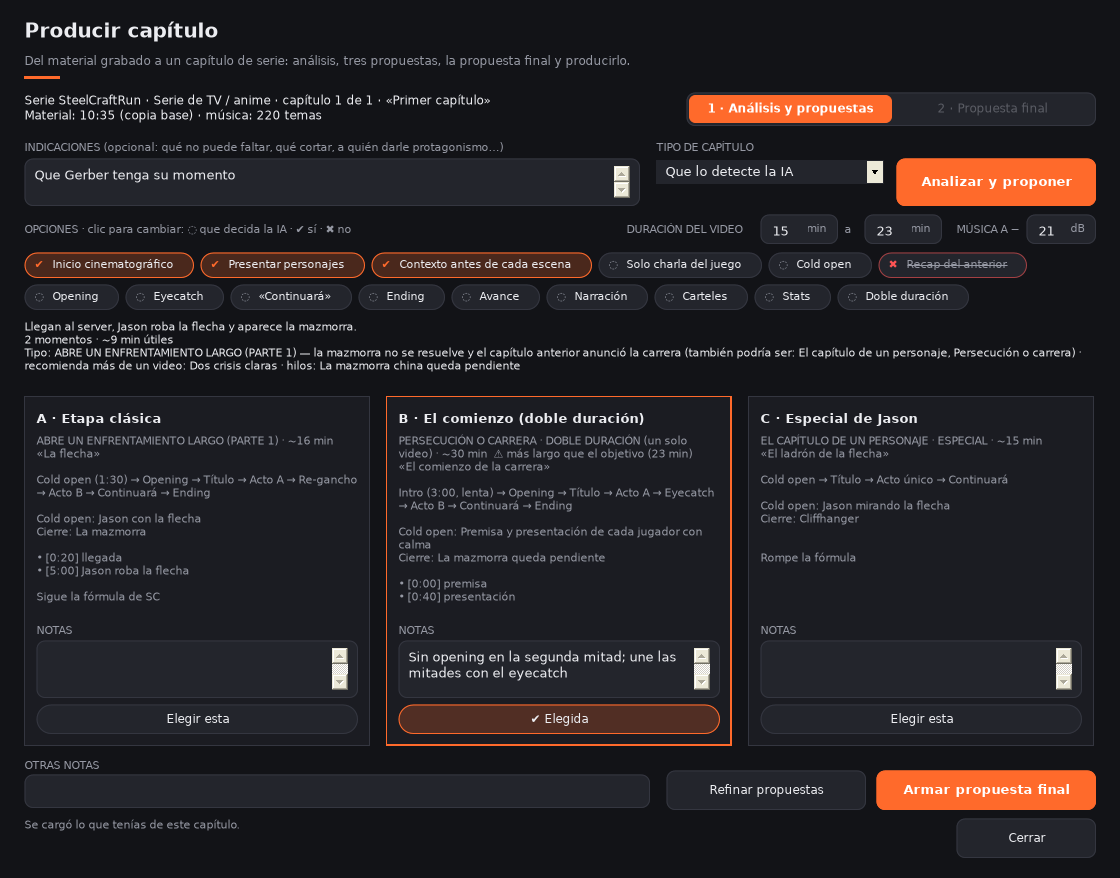
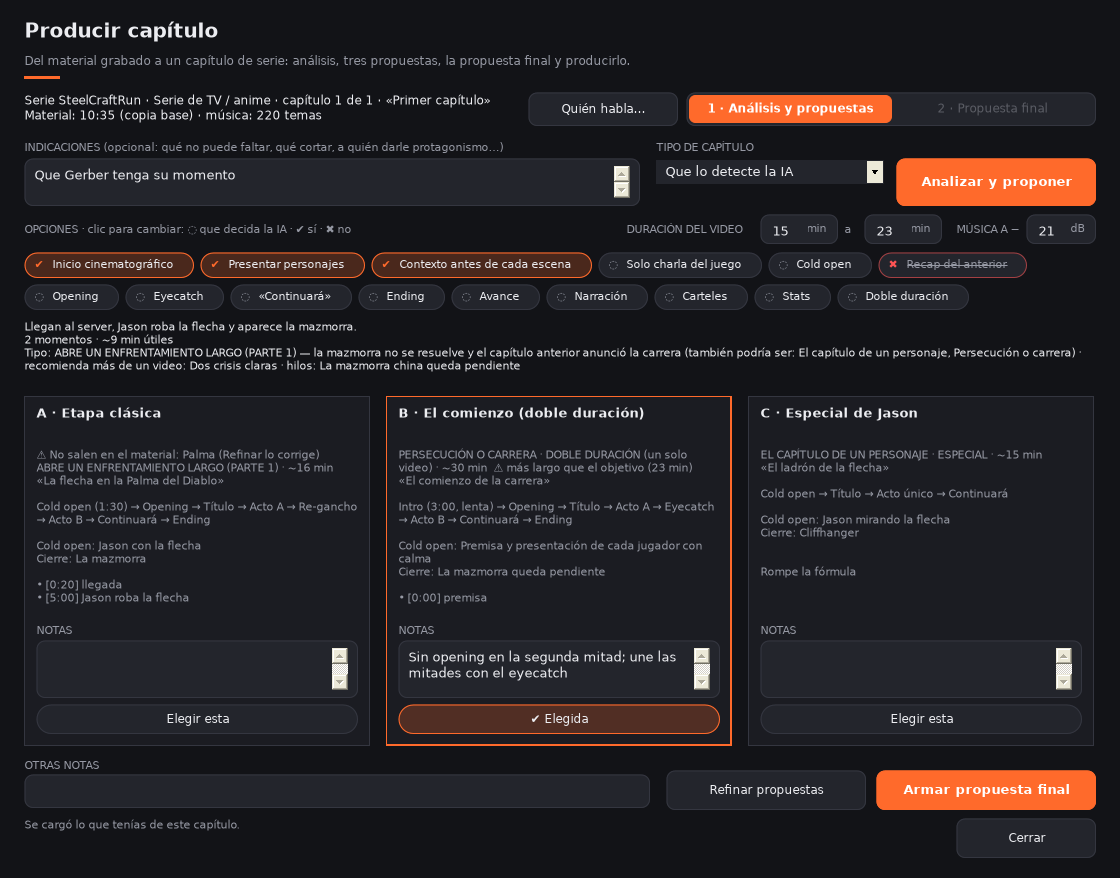
Producir: quién habla en cada pista
- Los nombres de MomentosIA pasan a la transcripción de la copia BASE (que se guarda
  antes de MomentosIA), sin pisar los que ya tiene.
- Botón «Quién habla…» para poner o corregir el nombre de cada pista (también varios).
- Gemini recibe la lista de quién habla en cada pista además del nombre en cada línea.

Claude-Session: https://claude.ai/code/session_015ZPaXgugPUds11RD7qtQCJ

diff --git a/scripts/ProducirCapitulo.cs b/scripts/ProducirCapitulo.cs
@@ -89,6 +89,43 @@ class OpcionTriple : ControlBase
     }
 }
 
+// Quien habla en cada pista (como en MomentosIA).
+class VentanaHablantes : VentanaBase
+{
+    readonly List<KeyValuePair<Hablante, CampoTexto>> campos = new List<KeyValuePair<Hablante, CampoTexto>>();
+
+    public VentanaHablantes(Transcripcion t) : base("Qui\u00e9n habla", 620)
+    {
+        StartPosition = FormStartPosition.CenterParent;
+        int m = Margen, w = Ancho;
+        Encabezado("Qui\u00e9n habla", "Un nombre por pista; si hablan varios, escr\u00edbelos todos (\u00abDiscord: Jason, Gerber y Ronnie\u00bb).");
+        int y = 92;
+        foreach (Hablante h in t.Hablantes)
+        {
+            if (!h.Voz) continue;
+            string archivo = Path.GetFileName(h.Archivo ?? "");
+            Texto(h.Etiqueta + (archivo.Length > 0 ? " \u00b7 " + archivo : ""), Tema.Pequena, Tema.TextoSuave, m, y + 8, 200, 18);
+            CampoTexto c = new CampoTexto();
+            c.Text = h.Nombre != h.Etiqueta ? (h.Nombre ?? "") : "";
+            Pos(c, m + 210, y, w - 210, 32);
+            campos.Add(new KeyValuePair<Hablante, CampoTexto>(h, c));
+            y += 40;
+        }
+        y += 10;
+        Boton ok = new Boton("Guardar", EstiloBoton.Primario), no = new Boton("Cancelar", EstiloBoton.Secundario);
+        Pos(no, m + w - 270, y, 120, 36);
+        Pos(ok, m + w - 140, y, 140, 36);
+        ClientSize = new Size(ClientSize.Width, y + 36 + 20);
+        ok.Click += delegate
+        {
+            foreach (KeyValuePair<Hablante, CampoTexto> kv in campos)
+                kv.Key.Nombre = kv.Value.Text.Trim().Length > 0 ? kv.Value.Text.Trim() : kv.Key.Etiqueta;
+            DialogResult = DialogResult.OK; Close();
+        };
+        no.Click += delegate { DialogResult = DialogResult.Cancel; Close(); };
+    }
+}
+
 // La propuesta completa, para leerla entera (la tarjeta la corta).
 static class VerTexto
 {
@@ -202,6 +239,7 @@ class VentanaProduccion : VentanaBase
     Etiqueta lblContexto, lblAnalisis, lblEstado, lblFinal;
     CampoTexto txtIndicaciones = new CampoTexto();
     Combo cmbTipo = new Combo();
+    Boton btnHablan = new Boton("Qui\u00e9n habla\u2026", EstiloBoton.Secundario);
     List<OpcionTriple> chips = new List<OpcionTriple>();
     CampoNumero numMin = new CampoNumero(), numMax = new CampoNumero(), numMusica = new CampoNumero();
     OpcionesCapitulo opc = new OpcionesCapitulo();
@@ -225,7 +263,8 @@ class VentanaProduccion : VentanaBase
         int m = Margen, w = Ancho;
         Encabezado("Producir cap\u00edtulo", "Del material grabado a un cap\u00edtulo de serie: an\u00e1lisis, tres propuestas, la propuesta final y producirlo.");
         int y = 92;
-        lblContexto = Texto("", Tema.Normal, Tema.Texto, m, y, w - 420, 40);
+        lblContexto = Texto("", Tema.Normal, Tema.Texto, m, y, w - 580, 40);
+        Pos(btnHablan, m + w - 568, y, 150, 34);
         Pos(segPaso, m + w - 410, y, 410, 34);
         y += 46;
 
@@ -319,6 +358,17 @@ class VentanaProduccion : VentanaBase
             Analizar();
         };
         btnRefinar.Click += delegate { Refinar(); };
+        btnHablan.Click += delegate
+        {
+            if (trans == null) return;
+            using (VentanaHablantes v = new VentanaHablantes(trans))
+                if (v.ShowDialog(this) == DialogResult.OK)
+                {
+                    try { trans.Guardar(Transcripcion.RutaPara(veg)); } catch { }
+                    if (analisis != null) MostrarAnalisis();
+                    Estado("\u2714 Nombres guardados. Los usa todo lo que le pidas a Gemini desde ahora.", false);
+                }
+        };
         btnFinal.Click += delegate { Final(null); };
         btnAjustar.Click += delegate
         {
@@ -472,6 +522,10 @@ class VentanaProduccion : VentanaBase
         try
         {
             trans = Transcripcion.Cargar(Transcripcion.RutaPara(veg));
+            // La copia BASE se guarda antes de MomentosIA: los nombres que pusiste ahi estan en la del original.
+            string tOrig = Transcripcion.RutaPara(original);
+            if (veg != original && File.Exists(tOrig) && LogicaProduccion.CopiarNombres(trans, Transcripcion.Cargar(tOrig)) > 0)
+                try { trans.Guardar(Transcripcion.RutaPara(veg)); } catch { }
             if (trans.TieneFuentes) trans.Ubicador = PistasVegas.Ubicador(vegas.Project, trans);
         }
         catch (Exception ex) { Estado("No se pudo leer la transcripci\u00f3n: " + ex.Message, true); }
@@ -568,7 +622,7 @@ class VentanaProduccion : VentanaBase
 
     void Habilitar(bool si)
     {
-        foreach (Control c in new Control[] { btnAnalizar, btnRefinar, btnFinal, btnAjustar, btnProducir, btnCerrar, segPaso }) c.Enabled = si;
+        foreach (Control c in new Control[] { btnAnalizar, btnRefinar, btnFinal, btnAjustar, btnProducir, btnCerrar, segPaso, btnHablan }) c.Enabled = si;
         if (si) btnRefinar.Enabled = analisis != null;
         if (si) { btnFinal.Enabled = Elegida() != null; segPaso.Habilitar(1, final != null); }
     }
@@ -1200,6 +1254,39 @@ public static class LogicaProduccion
                " \"papel\": {\"sugerido\": \"" + papel + "\", \"motivo\": \"...\"},\n" + FormatoPropuestas + "}";
     }
 
+    // Quien habla en cada pista (lo que pusiste en MomentosIA o en \u00abQui\u00e9n habla\u2026\u00bb).
+    public static string QuienHabla(Transcripcion t)
+    {
+        if (t == null) return "";
+        StringBuilder sb = new StringBuilder();
+        foreach (Hablante h in t.Hablantes)
+        {
+            if (!h.Voz) continue;
+            string n = (h.Nombre ?? "").Trim();
+            sb.Append("- " + h.Etiqueta + ": " + (n.Length > 0 && n != h.Etiqueta ? n : "(sin nombre)") + "\n");
+        }
+        if (sb.Length == 0) return "";
+        return "\nQUI\u00c9N HABLA EN CADA PISTA (si una pista tiene a varias personas, dist\u00edngelas por lo que dicen y c\u00f3mo se llaman " +
+               "entre ellos):\n" + sb;
+    }
+
+    // Pasa los nombres de una transcripcion a otra (de la del proyecto original a la de la copia BASE)
+    // en las pistas que no tienen nombre. Devuelve cuantos paso.
+    public static int CopiarNombres(Transcripcion destino, Transcripcion origen)
+    {
+        if (destino == null || origen == null) return 0;
+        int n = 0;
+        foreach (Hablante h in destino.Hablantes)
+        {
+            if (!String.IsNullOrEmpty(h.Nombre) && h.Nombre != h.Etiqueta) continue;
+            Hablante o = origen.Hablantes.Find(delegate (Hablante x) { return x.Etiqueta == h.Etiqueta; });
+            if (o == null || String.IsNullOrEmpty(o.Nombre) || o.Nombre == o.Etiqueta) continue;
+            h.Nombre = o.Nombre;
+            n++;
+        }
+        return n;
+    }
+
     public static string MensajeAnalisis(Transcripcion t, double duracion, string contextoSerie, string reparto, string indicaciones)
     {
         StringBuilder sb = new StringBuilder();
@@ -1207,6 +1294,7 @@ public static class LogicaProduccion
         if (!String.IsNullOrEmpty(indicaciones)) sb.Append("\nINDICACIONES DEL EDITOR (mandan):\n" + indicaciones.Trim() + "\n");
         if (!String.IsNullOrEmpty(contextoSerie)) sb.Append("\nCONTEXTO DE LA SERIE:\n" + contextoSerie.Trim() + "\n");
         if (!String.IsNullOrEmpty(reparto)) sb.Append("\n" + reparto);
+        sb.Append(QuienHabla(t));
         sb.Append("\nTRANSCRIPCI\u00d3N DEL MATERIAL [inicio-fin] persona: texto\n" + Material(t, 400000));
         return sb.ToString();
     }
@@ -1523,6 +1611,7 @@ public static class LogicaProduccion
         foreach (MomentoMaterial x in a.Momentos)
             sb.Append("[" + S(x.Inicio) + "-" + S(x.Fin) + "] " + x.Tipo + " (" + x.Fuerza + "): " + x.Texto + "\n");
         if (!String.IsNullOrEmpty(reparto)) sb.Append("\n" + reparto);
+        sb.Append(QuienHabla(t));
         if (m != null)
         {
             if (m.Principal != null) sb.Append("Tema principal de la serie: " + Path.GetFileNameWithoutExtension(m.Principal.Archivo) + "\n");

diff --git a/src/producir/Produccion.cs b/src/producir/Produccion.cs
@@ -66,6 +66,43 @@ class OpcionTriple : ControlBase
     }
 }
 
+// Quien habla en cada pista (como en MomentosIA).
+class VentanaHablantes : VentanaBase
+{
+    readonly List<KeyValuePair<Hablante, CampoTexto>> campos = new List<KeyValuePair<Hablante, CampoTexto>>();
+
+    public VentanaHablantes(Transcripcion t) : base("Quién habla", 620)
+    {
+        StartPosition = FormStartPosition.CenterParent;
+        int m = Margen, w = Ancho;
+        Encabezado("Quién habla", "Un nombre por pista; si hablan varios, escríbelos todos («Discord: Jason, Gerber y Ronnie»).");
+        int y = 92;
+        foreach (Hablante h in t.Hablantes)
+        {
+            if (!h.Voz) continue;
+            string archivo = Path.GetFileName(h.Archivo ?? "");
+            Texto(h.Etiqueta + (archivo.Length > 0 ? " · " + archivo : ""), Tema.Pequena, Tema.TextoSuave, m, y + 8, 200, 18);
+            CampoTexto c = new CampoTexto();
+            c.Text = h.Nombre != h.Etiqueta ? (h.Nombre ?? "") : "";
+            Pos(c, m + 210, y, w - 210, 32);
+            campos.Add(new KeyValuePair<Hablante, CampoTexto>(h, c));
+            y += 40;
+        }
+        y += 10;
+        Boton ok = new Boton("Guardar", EstiloBoton.Primario), no = new Boton("Cancelar", EstiloBoton.Secundario);
+        Pos(no, m + w - 270, y, 120, 36);
+        Pos(ok, m + w - 140, y, 140, 36);
+        ClientSize = new Size(ClientSize.Width, y + 36 + 20);
+        ok.Click += delegate
+        {
+            foreach (KeyValuePair<Hablante, CampoTexto> kv in campos)
+                kv.Key.Nombre = kv.Value.Text.Trim().Length > 0 ? kv.Value.Text.Trim() : kv.Key.Etiqueta;
+            DialogResult = DialogResult.OK; Close();
+        };
+        no.Click += delegate { DialogResult = DialogResult.Cancel; Close(); };
+    }
+}
+
 // La propuesta completa, para leerla entera (la tarjeta la corta).
 static class VerTexto
 {
@@ -179,6 +216,7 @@ class VentanaProduccion : VentanaBase
     Etiqueta lblContexto, lblAnalisis, lblEstado, lblFinal;
     CampoTexto txtIndicaciones = new CampoTexto();
     Combo cmbTipo = new Combo();
+    Boton btnHablan = new Boton("Quién habla…", EstiloBoton.Secundario);
     List<OpcionTriple> chips = new List<OpcionTriple>();
     CampoNumero numMin = new CampoNumero(), numMax = new CampoNumero(), numMusica = new CampoNumero();
     OpcionesCapitulo opc = new OpcionesCapitulo();
@@ -202,7 +240,8 @@ class VentanaProduccion : VentanaBase
         int m = Margen, w = Ancho;
         Encabezado("Producir capítulo", "Del material grabado a un capítulo de serie: análisis, tres propuestas, la propuesta final y producirlo.");
         int y = 92;
-        lblContexto = Texto("", Tema.Normal, Tema.Texto, m, y, w - 420, 40);
+        lblContexto = Texto("", Tema.Normal, Tema.Texto, m, y, w - 580, 40);
+        Pos(btnHablan, m + w - 568, y, 150, 34);
         Pos(segPaso, m + w - 410, y, 410, 34);
         y += 46;
 
@@ -296,6 +335,17 @@ class VentanaProduccion : VentanaBase
             Analizar();
         };
         btnRefinar.Click += delegate { Refinar(); };
+        btnHablan.Click += delegate
+        {
+            if (trans == null) return;
+            using (VentanaHablantes v = new VentanaHablantes(trans))
+                if (v.ShowDialog(this) == DialogResult.OK)
+                {
+                    try { trans.Guardar(Transcripcion.RutaPara(veg)); } catch { }
+                    if (analisis != null) MostrarAnalisis();
+                    Estado("✔ Nombres guardados. Los usa todo lo que le pidas a Gemini desde ahora.", false);
+                }
+        };
         btnFinal.Click += delegate { Final(null); };
         btnAjustar.Click += delegate
         {
@@ -449,6 +499,10 @@ class VentanaProduccion : VentanaBase
         try
         {
             trans = Transcripcion.Cargar(Transcripcion.RutaPara(veg));
+            // La copia BASE se guarda antes de MomentosIA: los nombres que pusiste ahi estan en la del original.
+            string tOrig = Transcripcion.RutaPara(original);
+            if (veg != original && File.Exists(tOrig) && LogicaProduccion.CopiarNombres(trans, Transcripcion.Cargar(tOrig)) > 0)
+                try { trans.Guardar(Transcripcion.RutaPara(veg)); } catch { }
             if (trans.TieneFuentes) trans.Ubicador = PistasVegas.Ubicador(vegas.Project, trans);
         }
         catch (Exception ex) { Estado("No se pudo leer la transcripción: " + ex.Message, true); }
@@ -545,7 +599,7 @@ class VentanaProduccion : VentanaBase
 
     void Habilitar(bool si)
     {
-        foreach (Control c in new Control[] { btnAnalizar, btnRefinar, btnFinal, btnAjustar, btnProducir, btnCerrar, segPaso }) c.Enabled = si;
+        foreach (Control c in new Control[] { btnAnalizar, btnRefinar, btnFinal, btnAjustar, btnProducir, btnCerrar, segPaso, btnHablan }) c.Enabled = si;
         if (si) btnRefinar.Enabled = analisis != null;
         if (si) { btnFinal.Enabled = Elegida() != null; segPaso.Habilitar(1, final != null); }
     }

diff --git a/src/producir/LogicaProduccion.cs b/src/producir/LogicaProduccion.cs
@@ -413,6 +413,39 @@ public static class LogicaProduccion
                " \"papel\": {\"sugerido\": \"" + papel + "\", \"motivo\": \"...\"},\n" + FormatoPropuestas + "}";
     }
 
+    // Quien habla en cada pista (lo que pusiste en MomentosIA o en «Quién habla…»).
+    public static string QuienHabla(Transcripcion t)
+    {
+        if (t == null) return "";
+        StringBuilder sb = new StringBuilder();
+        foreach (Hablante h in t.Hablantes)
+        {
+            if (!h.Voz) continue;
+            string n = (h.Nombre ?? "").Trim();
+            sb.Append("- " + h.Etiqueta + ": " + (n.Length > 0 && n != h.Etiqueta ? n : "(sin nombre)") + "\n");
+        }
+        if (sb.Length == 0) return "";
+        return "\nQUIÉN HABLA EN CADA PISTA (si una pista tiene a varias personas, distíngelas por lo que dicen y cómo se llaman " +
+               "entre ellos):\n" + sb;
+    }
+
+    // Pasa los nombres de una transcripcion a otra (de la del proyecto original a la de la copia BASE)
+    // en las pistas que no tienen nombre. Devuelve cuantos paso.
+    public static int CopiarNombres(Transcripcion destino, Transcripcion origen)
+    {
+        if (destino == null || origen == null) return 0;
+        int n = 0;
+        foreach (Hablante h in destino.Hablantes)
+        {
+            if (!String.IsNullOrEmpty(h.Nombre) && h.Nombre != h.Etiqueta) continue;
+            Hablante o = origen.Hablantes.Find(delegate (Hablante x) { return x.Etiqueta == h.Etiqueta; });
+            if (o == null || String.IsNullOrEmpty(o.Nombre) || o.Nombre == o.Etiqueta) continue;
+            h.Nombre = o.Nombre;
+            n++;
+        }
+        return n;
+    }
+
     public static string MensajeAnalisis(Transcripcion t, double duracion, string contextoSerie, string reparto, string indicaciones)
     {
         StringBuilder sb = new StringBuilder();
@@ -420,6 +453,7 @@ public static class LogicaProduccion
         if (!String.IsNullOrEmpty(indicaciones)) sb.Append("\nINDICACIONES DEL EDITOR (mandan):\n" + indicaciones.Trim() + "\n");
         if (!String.IsNullOrEmpty(contextoSerie)) sb.Append("\nCONTEXTO DE LA SERIE:\n" + contextoSerie.Trim() + "\n");
         if (!String.IsNullOrEmpty(reparto)) sb.Append("\n" + reparto);
+        sb.Append(QuienHabla(t));
         sb.Append("\nTRANSCRIPCIÓN DEL MATERIAL [inicio-fin] persona: texto\n" + Material(t, 400000));
         return sb.ToString();
     }
@@ -736,6 +770,7 @@ public static class LogicaProduccion
         foreach (MomentoMaterial x in a.Momentos)
             sb.Append("[" + S(x.Inicio) + "-" + S(x.Fin) + "] " + x.Tipo + " (" + x.Fuerza + "): " + x.Texto + "\n");
         if (!String.IsNullOrEmpty(reparto)) sb.Append("\n" + reparto);
+        sb.Append(QuienHabla(t));
         if (m != null)
         {
             if (m.Principal != null) sb.Append("Tema principal de la serie: " + Path.GetFileNameWithoutExtension(m.Principal.Archivo) + "\n");

diff --git a/pruebas/PruebaProduccion.cs b/pruebas/PruebaProduccion.cs
@@ -148,6 +148,19 @@ class PruebaProduccion
                   Math.Abs(rep.Repetido - 41.5) < 0.01,
                   "Escaleta: nada se repite (lo del cold open se recorta de los actos); el avance es del próximo capítulo y queda como placeholder");
 
+        // ------------------------------------------------ quien habla
+        Transcripcion tb = new Transcripcion(), to = new Transcripcion();
+        tb.Hablantes.Add(new Hablante { Etiqueta = "A2", Nombre = "A2", Voz = true });
+        tb.Hablantes.Add(new Hablante { Etiqueta = "A3", Nombre = "Jason", Voz = true });
+        tb.Hablantes.Add(new Hablante { Etiqueta = "A5", Nombre = "A5", Voz = false });
+        to.Hablantes.Add(new Hablante { Etiqueta = "A2", Nombre = "AB Fann", Voz = true });
+        to.Hablantes.Add(new Hablante { Etiqueta = "A3", Nombre = "Otro", Voz = true });
+        int cn2 = LogicaProduccion.CopiarNombres(tb, to);
+        string qh = LogicaProduccion.MensajeAnalisis(tb, 60, "", "", "");
+        Verificar(cn2 == 1 && tb.Hablantes[0].Nombre == "AB Fann" && tb.Hablantes[1].Nombre == "Jason" && qh.Contains("QUIÉN HABLA EN CADA PISTA") &&
+                  qh.Contains("- A2: AB Fann") && !qh.Contains("A5"),
+                  "Quién habla: los nombres de MomentosIA pasan a la copia BASE (sin pisar los que ya tiene) y Gemini los recibe por pista");
+
         // ------------------------------------------------ duracion pedida
         PlanFinal corta = LogicaProduccion.LeerFinal(@"{""partes"": [{""titulo"": ""X"", ""estructura"": [{""bloque"": ""acto_a"", ""tipo"": ""contenido""}],
             ""bloques"": [{""bloque"": ""acto_a"", ""clips"": [{""inicio"": 100, ""fin"": 220}, {""inicio"": 400, ""fin"": 580}]}]}]}", 3600, 0, 195);

diff --git a/README.md b/README.md
@@ -352,6 +352,11 @@ que guarda PrepararEpisodio: sin silencios y transcrita). Usa la serie del capí
 plantilla de bloques, premisa, papel y nota del capítulo, fichas de los capítulos anteriores y
 posteriores, reparto y temas de cada personaje, y tu biblioteca de música.
 
+**Quién habla…** (arriba) muestra el nombre de cada pista de voz. Si hablan varios por la misma,
+escríbelos todos («Discord: Jason, Gerber y Ronnie»). Los nombres que pusiste en MomentosIA pasan
+solos a la copia BASE; Gemini los recibe en cada línea de la transcripción y en una lista por
+pista.
+
 1. **Analizar y proponer.** Gemini lee todo el material con ese contexto y la estructura de
    referencia de SC y SBR (`docs/estructura-episodio-sc.md`). Devuelve:
    - los mejores momentos y los hilos con otros capítulos;
